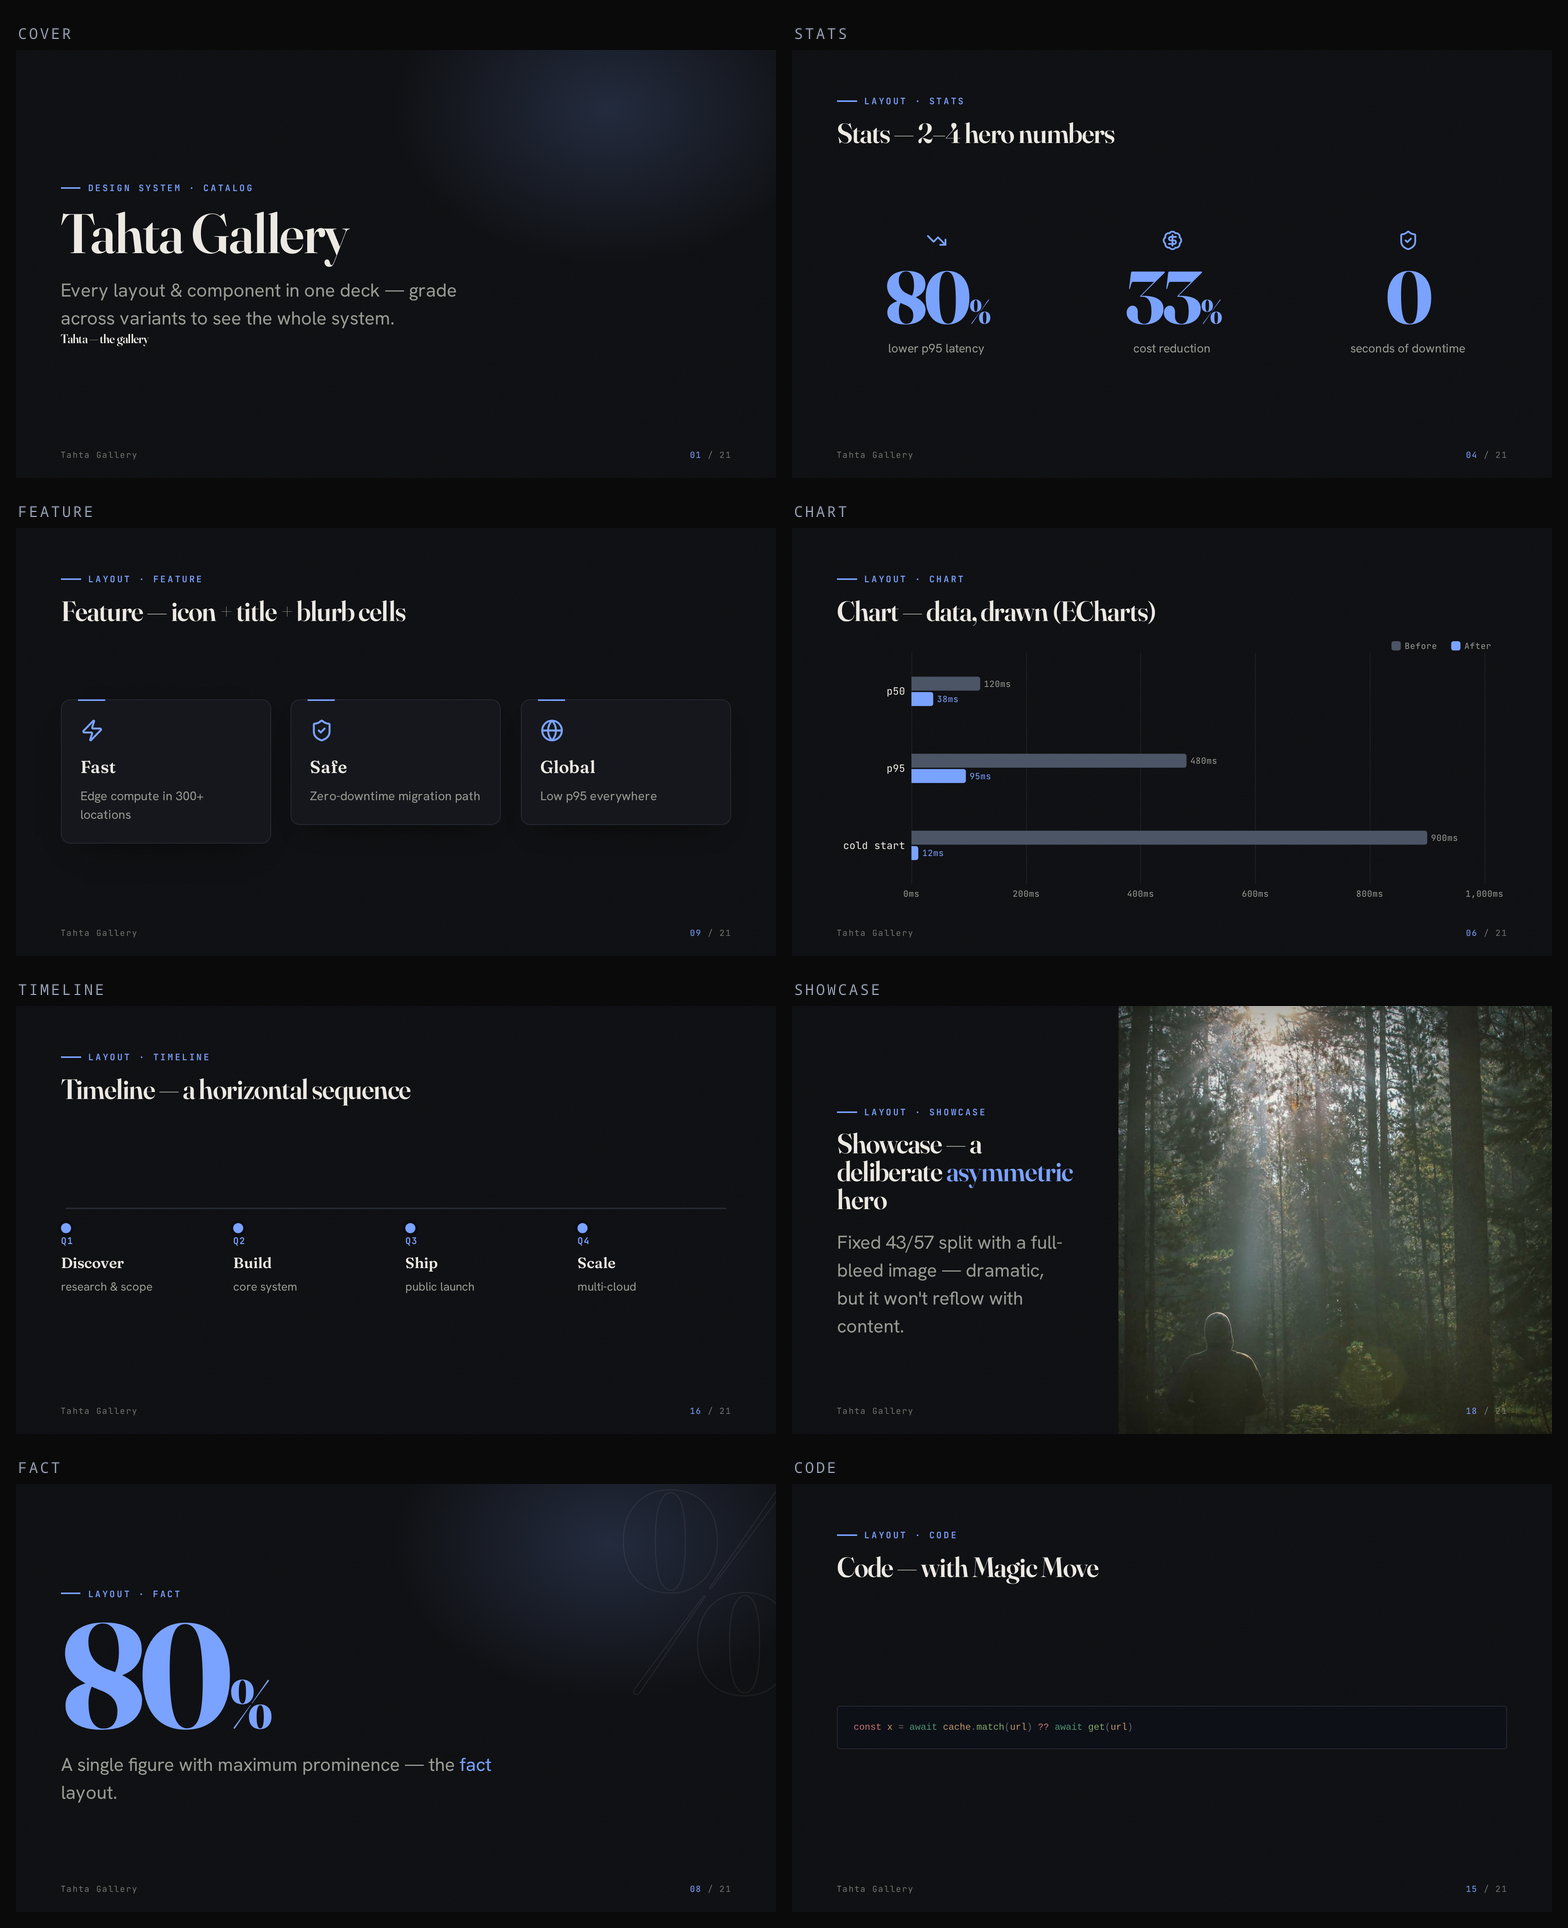
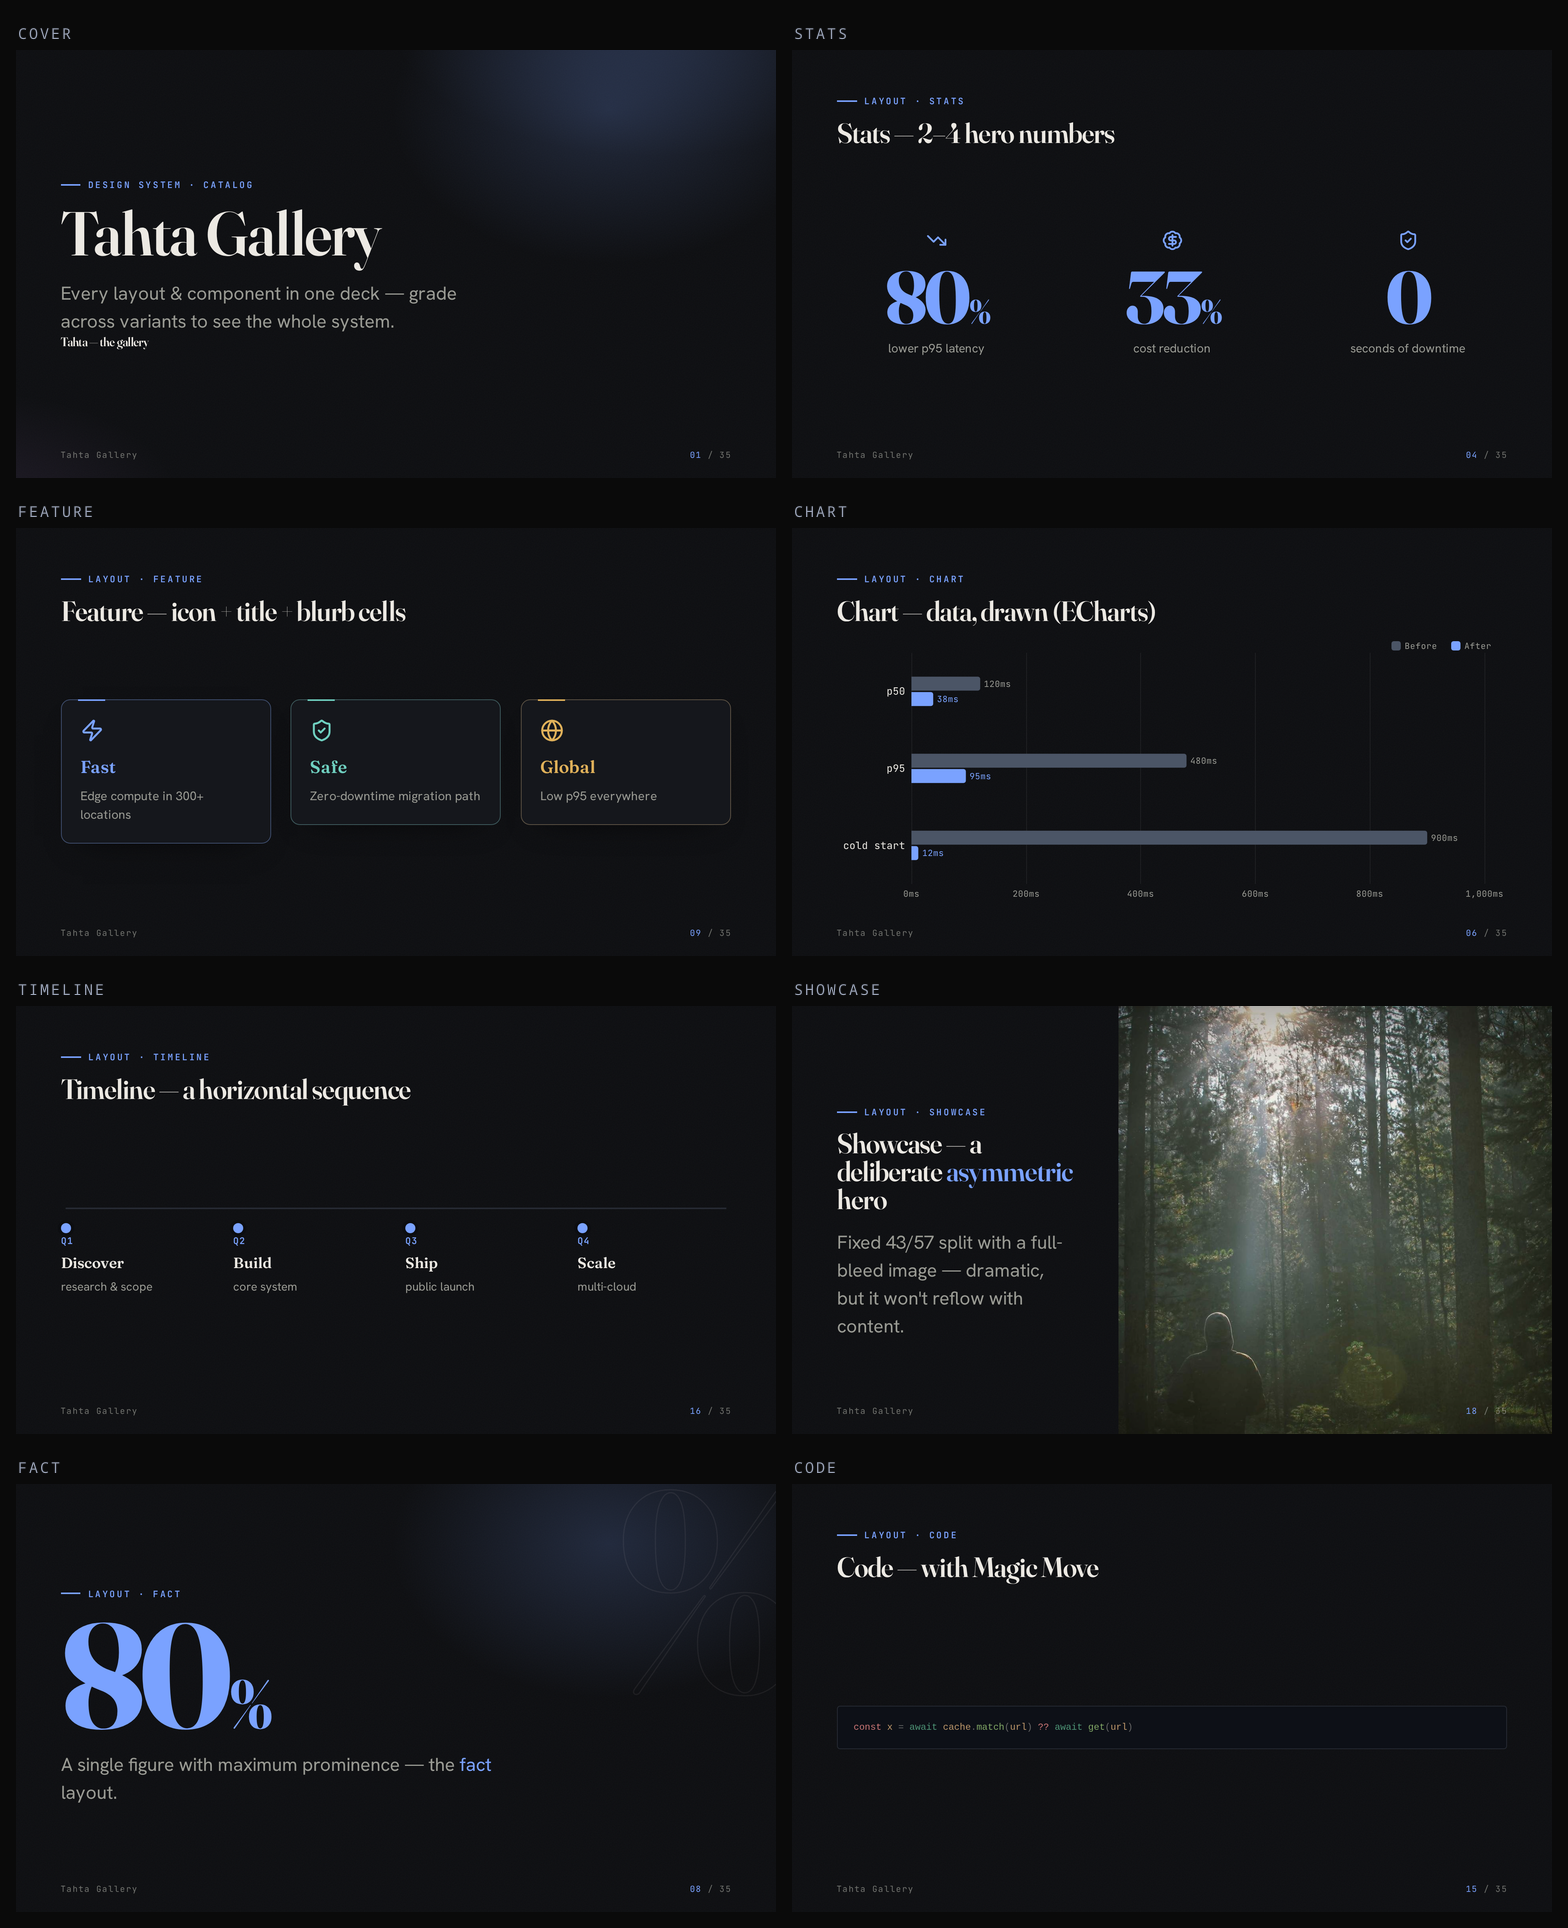
release(theme): 0.10.0 — best-of-the-best variant revamp (7 → 13)
Docs + hero montage for the 6 new variants + themed-palette/role-color system
upgrades. gen-assets now derives the variant list from variants.json (was hardcoded)
so the montage auto-covers all 13. README counts/tables + CHANGELOG updated.

Changed region(s): [[0.0312, 0.0934, 0.25, 0.1867], [0.3438, 0.3734, 0.375, 0.4046], [0.1875, 0.3734, 0.2188, 0.4046]]

diff --git a/README.md b/README.md
@@ -7,9 +7,9 @@ Tokens, components, and patterns — so a deck is something you <i>assemble</i>,
 
 <p align="center"><a href="https://tahta.cagdas.io">tahta.cagdas.io</a> — live explorer (every layout × every variant) · used in production by <a href="https://tela.cagdas.io">tela</a> as its deck theme.</p>
 
-<p align="center"><img src="docs/assets/variants.png" alt="One deck rendered in all seven tahta variants" width="860"></p>
+<p align="center"><img src="docs/assets/variants.png" alt="One deck rendered in all thirteen tahta variants" width="860"></p>
 
-<p align="center"><em>One deck, seven variants — one line changed. Not a recolor: different typefaces, shapes, textures, density, and motion.</em></p>
+<p align="center"><em>One deck, thirteen variants — one line changed. Not a recolor: different typefaces, shapes, textures, density, and motion.</em></p>
 
 ---
 
@@ -21,7 +21,7 @@ What makes it a system, not a theme:
 - **A published contract.** [`layouts.json`](packages/theme/layouts.json) (every layout + field) and [`variants.json`](packages/theme/variants.json) ship in the package; [`AGENTS.md`](packages/theme/AGENTS.md) is *generated* from them.
 - **Components & patterns.** `Stat`, `Plot` (ECharts), `Callout`, `Badge`, `Icon` (Lucide, bundled), `Reveal`, `Fit` + 20 layouts — all variant-aware. Semantic `good/warn/bad/info` roles; `themeConfig.lang` for locale casing (Turkish `i→İ`).
 - **Quality is enforced, not hoped for.** `npm test` gates a **token-contract** (no hardcoded values) and **WCAG-AA contrast** for every variant; CI renders every layout across every variant.
-- **Variants are the proof.** `themeConfig.variant` — 7 complete styles (4 dark / 3 light) swapping type, shape, texture, density, motion, and palette. *That's* the one-liner — a consequence of the token system, not the pitch.
+- **Variants are the proof.** `themeConfig.variant` — 13 complete styles (6 dark / 7 light) swapping type, shape, texture, density, motion, and palette. *That's* the one-liner — a consequence of the token system, not the pitch.
 
 ## Variants
 
@@ -34,6 +34,12 @@ What makes it a system, not a theme:
 | **paper** | light | Fraunces serif | warm cream, grain | warm editorial |
 | **atelier** | dark | Hanken, gradient titles | cool, refined | studio / premium |
 | **notebook** | light | Hanken, bold | ruled paper, dashed rules | playful-clean |
+| **lagoon** | dark | Hanken, heavy | teal + pastel role-cards, rounded | moody / premium |
+| **press** | light | Fraunces serif | B&W, hairline, sharp | editorial magazine |
+| **boardroom** | dark | Hanken | navy + orange, conservative | corporate / trust |
+| **signal** | dark | Hanken, heavy | true black + electric, glow | launch / bold |
+| **muse** | light | Fraunces serif | muted stone, cream cards, grain | intellectual / restraint |
+| **poster** | light | Anton condensed | cream, thick rules, hot accent | loud / athletic |
 
 Machine-readable contracts ship in the package: [`variants.json`](packages/theme/variants.json) (the table above as data) and [`layouts.json`](packages/theme/layouts.json) (every layout + field + component) — `AGENTS.md` is generated from them.
 

diff --git a/CHANGELOG.md b/CHANGELOG.md
@@ -2,6 +2,14 @@
 
 All notable changes to `slidev-theme-tahta`. Follows [semver](https://semver.org); the public contract is the `themeConfig` keys, the layouts/components in `layouts.json`, the variants in `variants.json`, and the semantic tokens in `tokens.json`.
 
+## 0.10.0
+A best-of-the-best variant revamp — decomposed the strongest themes from Gamma, Keynote, PowerPoint, and Pitch, added two system upgrades that make *every* variant render richer, then built six new variants faithful to specific references (two QA render rounds each).
+
+- **System — themed data palettes.** Each variant now defines a deliberate 5-swatch chart ramp (`--cat-*`) instead of tints of one accent — the biggest "looks designed" multiplier (the move PowerPoint and Gamma both lead with). Charts, donuts, and role-colored cards all draw from it. The derived-from-accent ramp stays as the fallback for custom accents.
+- **System — role-color cards.** `panels` / `feature` / `columns` cards cycle a distinct hue from the ramp across border, top-tick, icon, and heading (the Gamma "every card its own color" signature), via CSS `nth-child` on the grid child.
+- **Six new variants (7 → 13):** `lagoon` (dark teal + pastel role-cards — Gamma Lagoon), `press` (B&W editorial magazine, Fraunces serif + red spot — Pitch Editorial), `boardroom` (navy + warm-orange corporate — PowerPoint Hexagon), `signal` (true black + electric cyan + glow — Keynote Standard Minimalist), `muse` (muted stone ground + heavy serif — Keynote Scientific Muted), `poster` (cream + Anton condensed + hot accent — Pitch Sports). Adds the `Anton` font.
+- **Gate fixes.** `check-contrast` and `gen-assets` now derive the variant list from `variants.json` (were hardcoded to 7), so every new variant is AA-gated and montaged automatically. `lint` also gained empty-slide + duplicate-frontmatter-key checks and a `tahta-lint` CLI (see 0.9.0).
+
 ## 0.9.0
 Authoring is now a deliberate, self-validating flow — the agent makes (and surfaces) design decisions instead of coasting on defaults, and `lint` blocks decks that look fine but won't ship.
 

diff --git a/packages/theme/README.md b/packages/theme/README.md
@@ -42,6 +42,12 @@ subtitle: A one-line promise
 | `paper` | light | Fraunces serif | warm editorial |
 | `atelier` | dark | Hanken, gradient titles | studio / premium |
 | `notebook` | light | Hanken, bold | playful-clean |
+| `lagoon` | dark | Hanken, heavy | moody teal + pastel role-cards |
+| `press` | light | Fraunces serif | B&W editorial magazine |
+| `boardroom` | dark | Hanken | navy + orange, corporate / trust |
+| `signal` | dark | Hanken, heavy | true black + electric, launch |
+| `muse` | light | Fraunces serif | muted stone, intellectual |
+| `poster` | light | Anton condensed | cream, loud / athletic |
 
 ```yaml
 themeConfig: